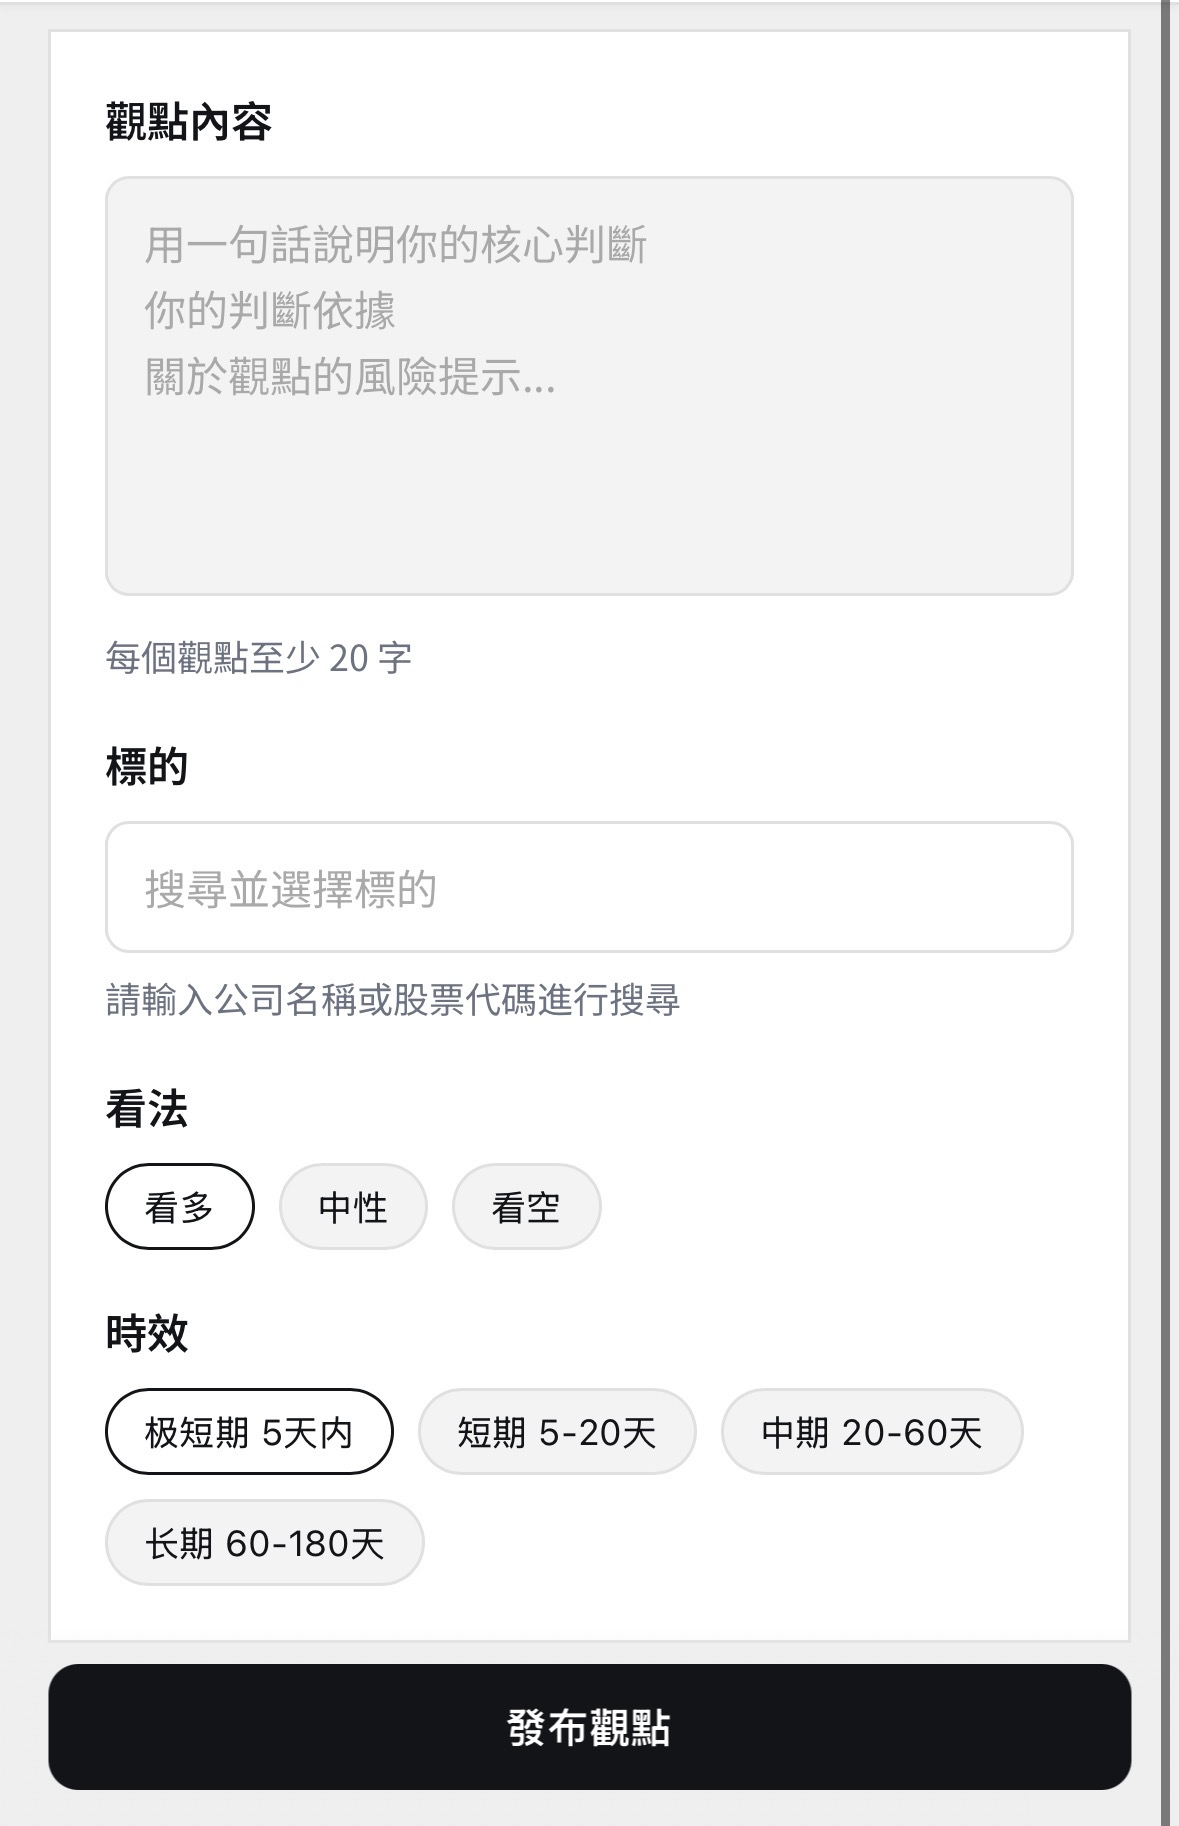
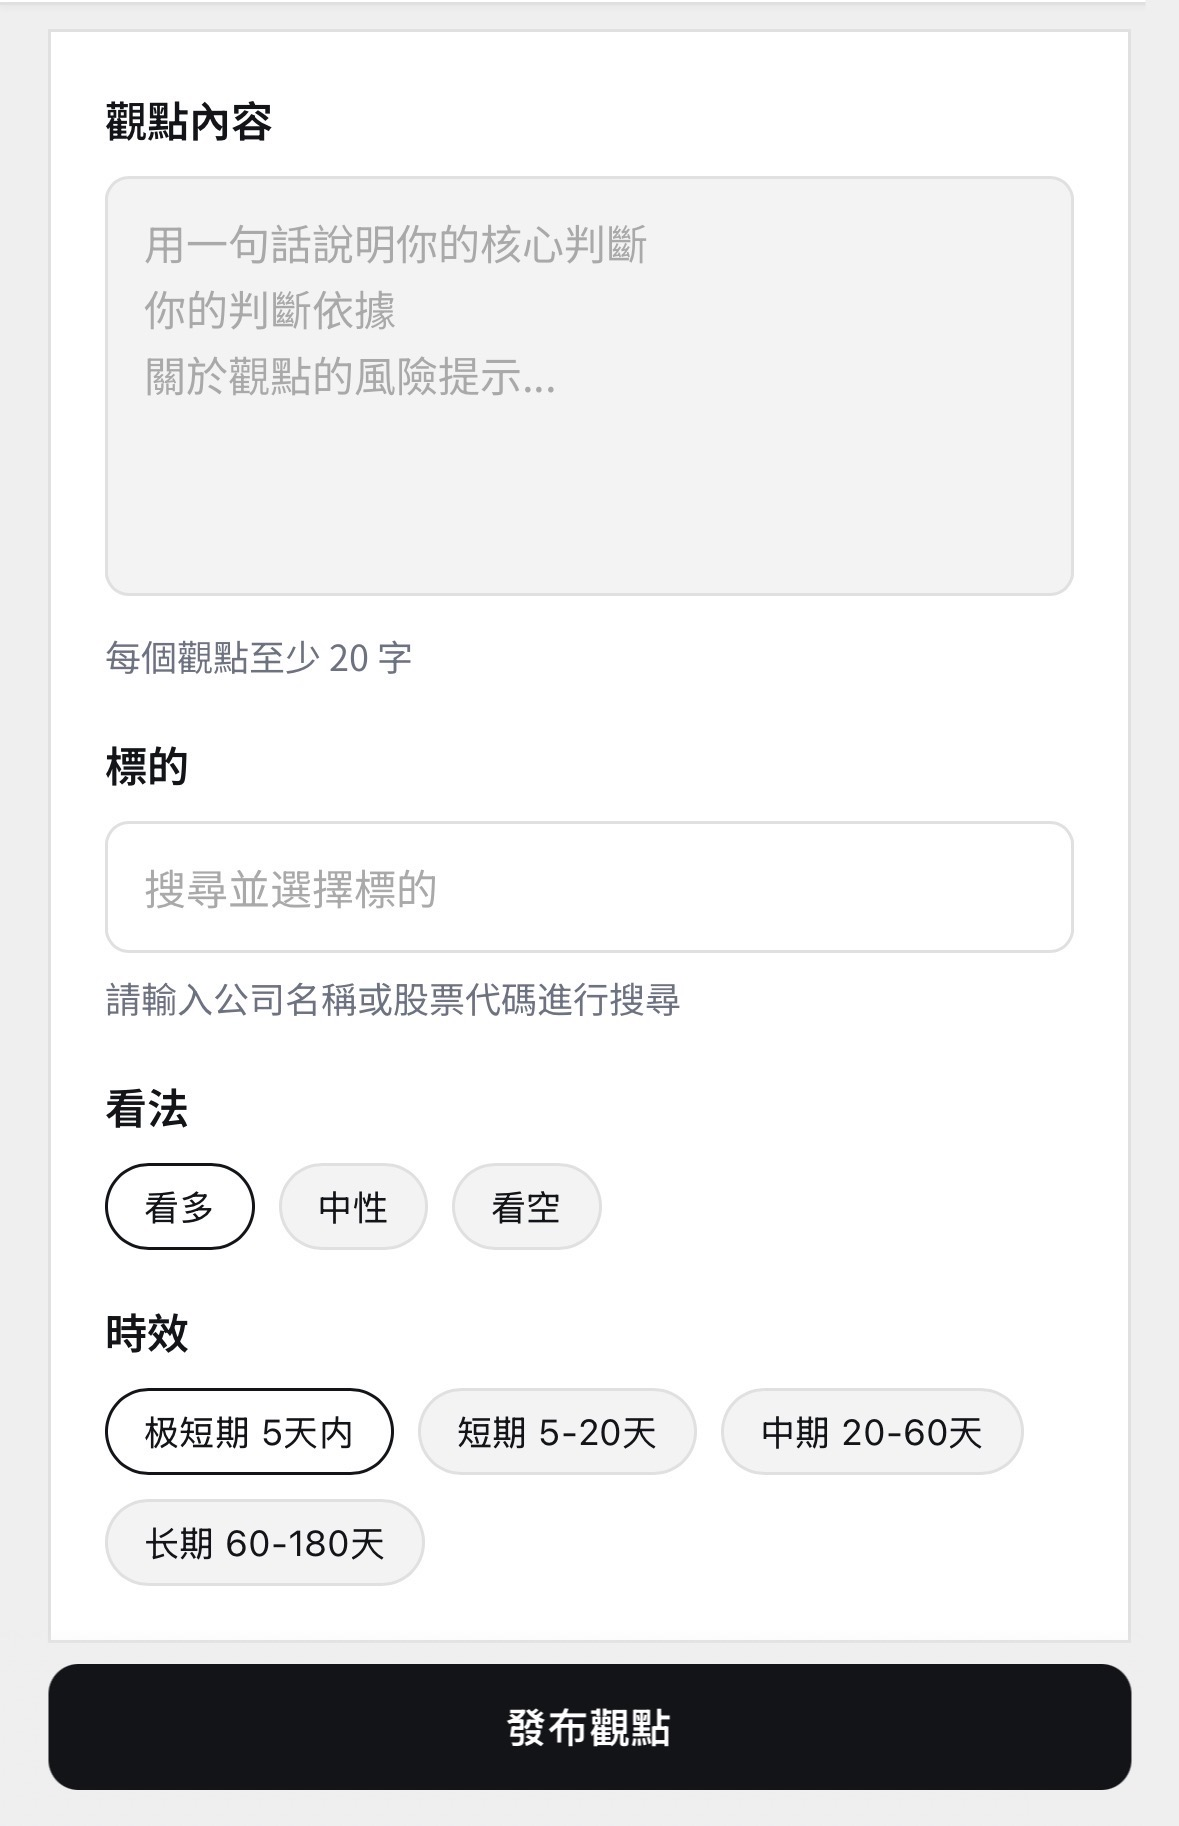
Polish login hero and footer links

Changed region(s): [[0.9771, 0.0, 1.0, 1.0]]

diff --git a/src/views/LoginView.vue b/src/views/LoginView.vue
@@ -14,7 +14,16 @@
     </nav>
 
     <header class="hero slide-in">
-      <h1 class="hero-title">{{ t("记录下每一个投资观点") }}</h1>
+      <h1 class="hero-title">
+        <span class="hero-rotate" aria-live="polite">
+          <span class="hero-rotate-inner">
+            <span>{{ t("验证") }}</span>
+            <span>{{ t("挖掘") }}</span>
+            <span>{{ t("记录") }}</span>
+          </span>
+        </span>
+        <span class="hero-title-rest">{{ t("每一个投资观点") }}</span>
+      </h1>
       <div class="hero-flow">
         <span>{{ t("挖掘") }}</span>
         <span class="hero-arrow">-&gt;</span>
@@ -91,8 +100,23 @@
     </section>
 
     <footer class="footer slide-in">
-      <div class="footer-line">ins：pai_product</div>
-      <div class="footer-line">email：pai.product.manager@gmail.com</div>
+      <div class="footer-line">
+        ins：
+        <a
+          class="footer-link"
+          href="https://www.instagram.com/pai_product?igsh=ZDV0cG5nMXlobGRm&utm_source=qr"
+          target="_blank"
+          rel="noreferrer"
+        >
+          pai_product
+        </a>
+      </div>
+      <div class="footer-line">
+        email：
+        <a class="footer-link" href="mailto:pai.product.manager@gmail.com">
+          pai.product.manager@gmail.com
+        </a>
+      </div>
       <div class="footer-line">Build by Codex, Trae, Gemini</div>
     </footer>
 
@@ -228,12 +252,13 @@ const handleGoogleSupabase = async () => {
   display: flex;
   align-items: center;
   justify-content: center;
+  border-radius: 0;
 }
 
 .nav-logo-img {
-  width: 20px;
-  height: 20px;
-  object-fit: contain;
+  width: 100%;
+  height: 100%;
+  object-fit: cover;
   display: block;
 }
 
@@ -264,6 +289,43 @@ const handleGoogleSupabase = async () => {
   background: var(--surface);
   border: 1px solid var(--border);
   padding: 18px;
+  text-align: center;
+  align-items: center;
+  position: relative;
+  overflow: hidden;
+  border-radius: 0;
+}
+
+.hero::before {
+  content: "";
+  position: absolute;
+  inset: 0;
+  background-image: radial-gradient(
+      rgba(18, 20, 23, 0.18) 1px,
+      transparent 1px
+    ),
+    radial-gradient(rgba(118, 187, 64, 0.22) 1px, transparent 1px);
+  background-size: 12px 12px, 22px 22px;
+  background-position: 0 0, 40px 30px;
+  opacity: 0.35;
+  pointer-events: none;
+}
+
+.hero::after {
+  content: "";
+  position: absolute;
+  inset: 0;
+  background: radial-gradient(
+    circle at 70% 20%,
+    rgba(118, 187, 64, 0.12),
+    transparent 55%
+  );
+  pointer-events: none;
+}
+
+.hero > * {
+  position: relative;
+  z-index: 1;
 }
 
 .hero-title {
@@ -271,6 +333,33 @@ const handleGoogleSupabase = async () => {
   margin: 6px 0 2px;
   letter-spacing: -0.02em;
   font-weight: 700;
+  display: inline-flex;
+  align-items: baseline;
+  justify-content: center;
+  gap: 6px;
+  flex-wrap: wrap;
+}
+
+.hero-rotate {
+  display: inline-block;
+  height: 1.1em;
+  overflow: hidden;
+  border-bottom: 2px solid var(--ink);
+  padding: 0 2px;
+}
+
+.hero-rotate-inner {
+  display: block;
+  animation: rotateWords 6s infinite;
+}
+
+.hero-rotate-inner span {
+  display: block;
+  height: 1.1em;
+}
+
+.hero-title-rest {
+  display: inline-block;
 }
 
 .hero-flow {
@@ -278,10 +367,11 @@ const handleGoogleSupabase = async () => {
   align-items: center;
   gap: 10px;
   font-weight: 700;
-  padding: 8px 10px;
+  padding: 6px 10px;
   border: 1px solid var(--border);
   background: var(--panel);
   width: fit-content;
+  justify-self: center;
 }
 
 .hero-arrow {
@@ -292,7 +382,7 @@ const handleGoogleSupabase = async () => {
 .hero-note {
   color: var(--muted);
   margin: 0;
-  font-size: 12px;
+  font-size: 11px;
   line-height: 1.5;
   text-transform: uppercase;
   letter-spacing: 0.08em;
@@ -302,7 +392,7 @@ const handleGoogleSupabase = async () => {
 
 .feature-card {
   background: var(--surface);
-  border-radius: var(--radius-card);
+  border-radius: 0;
   padding: 18px;
   border: 1px solid var(--border);
   position: relative;
@@ -310,16 +400,6 @@ const handleGoogleSupabase = async () => {
   margin-bottom: 18px;
   display: grid;
   gap: 16px;
-}
-
-.feature-card::before {
-  content: "";
-  position: absolute;
-  top: 12px;
-  right: 12px;
-  width: 8px;
-  height: 8px;
-  background: var(--ink);
 }
 
 .split {
@@ -352,10 +432,10 @@ const handleGoogleSupabase = async () => {
 }
 
 .feature-media {
-  background: var(--panel);
-  border: 1px solid var(--border);
-  border-radius: var(--radius);
-  padding: 10px;
+  background: transparent;
+  border: none;
+  border-radius: 0;
+  padding: 0;
   display: flex;
   align-items: center;
   justify-content: center;
@@ -364,10 +444,9 @@ const handleGoogleSupabase = async () => {
 .feature-media img {
   width: 100%;
   height: auto;
-  border-radius: 6px;
+  border-radius: 0;
   display: block;
   object-fit: cover;
-  border: 1px solid var(--border);
 }
 
 .steps {
@@ -379,10 +458,9 @@ const handleGoogleSupabase = async () => {
   padding: 10px 12px;
   background: var(--panel);
   border: 1px solid var(--border);
-  border-radius: var(--radius);
+  border-radius: 0;
   display: grid;
   gap: 4px;
-  border-left: 4px solid var(--ink);
 }
 
 .step-title {
@@ -398,7 +476,7 @@ const handleGoogleSupabase = async () => {
 
 .btn {
   border: 1px solid var(--border);
-  border-radius: 10px;
+  border-radius: 0;
   padding: 12px 16px;
   font-family: inherit;
   font-size: 15px;
@@ -458,6 +536,12 @@ const handleGoogleSupabase = async () => {
   line-height: 1.4;
 }
 
+.footer-link {
+  color: var(--ink);
+  text-decoration: underline;
+  text-underline-offset: 2px;
+}
+
 .login-drawer {
   position: fixed;
   left: 50%;
@@ -467,6 +551,7 @@ const handleGoogleSupabase = async () => {
   max-width: 600px;
   background: var(--surface);
   border-top: 2px solid var(--ink);
+  border-radius: 12px 12px 0 0;
   box-shadow: 0 -4px 18px rgba(15, 20, 25, 0.08);
   z-index: 10;
 }
@@ -480,6 +565,24 @@ const handleGoogleSupabase = async () => {
 .drawer-title {
   font-weight: 600;
   font-size: 14px;
+}
+
+@keyframes rotateWords {
+  0%,
+  20% {
+    transform: translateY(0%);
+  }
+  33%,
+  53% {
+    transform: translateY(-100%);
+  }
+  66%,
+  86% {
+    transform: translateY(-200%);
+  }
+  100% {
+    transform: translateY(0%);
+  }
 }
 
 @keyframes slideUp {
